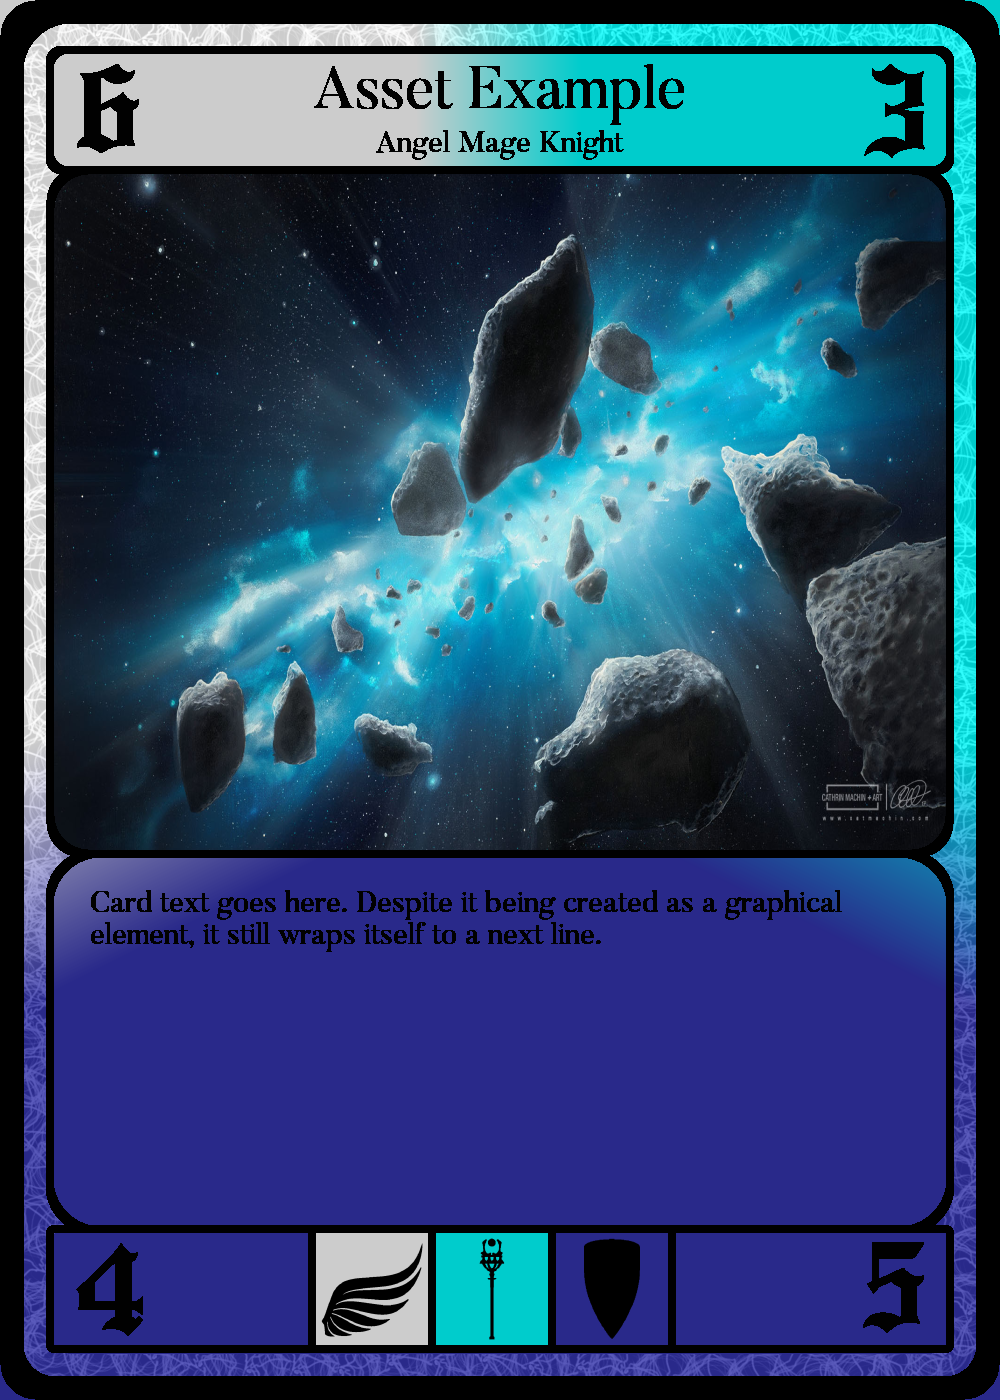
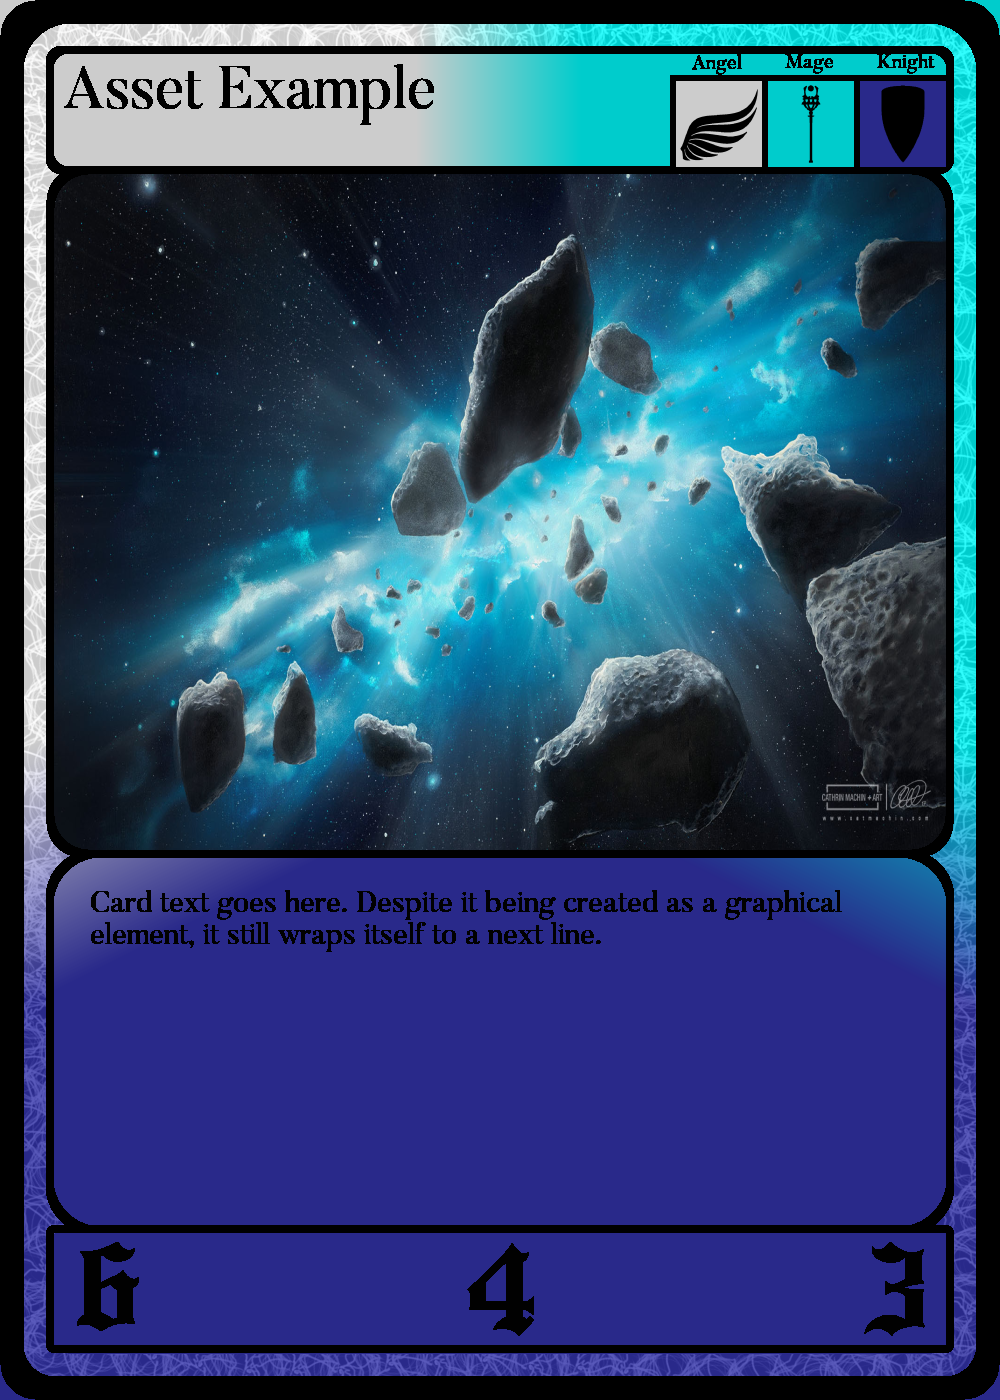
Repositioning elements on card

diff --git a/RogueProject.py b/RogueProject.py
@@ -11,6 +11,7 @@ import sqlite3
 import os
 import scipy
 import math
+import traceback
 from PIL import Image, ImageDraw, ImageFont
 
 # Scales all objects in the card image
@@ -27,37 +28,45 @@ NUMBER_HEIGHT = 100 * SCALING_FACTOR
 
 TEXT_WIDTH_START = int(9/100 * CARD_WIDTH)
 TEXT_WIDTH_END = int(91/100 * CARD_WIDTH)
-
 TEXT_HEIGHT_START = int(89 / 140 * CARD_HEIGHT)
+TEXT_HEIGHT_END = int(1188/1400 * CARD_HEIGHT)
 
-ATTACK_NUMBER_WIDTH = int(75 / 1000 * CARD_WIDTH)
-ATTACK_NUMBER_HEIGHT = int(1242 / 1400 * CARD_HEIGHT)
+POWER_NUMBER_POSITION_W = int(500 / 1000 * CARD_WIDTH)
+POWER_NUMBER_POSITION_H = int(1242 / 1400 * CARD_HEIGHT)
+POWER_NUMBER_SIZE = 75 * SCALING_FACTOR
+POWER_NUMBER_COLOR = (1, 1, 1, 255)
 
-MANA_NUMBER_WIDTH = int(925/1000 * CARD_WIDTH)
-MANA_NUMBER_HEIGHT = int(64/1400 * CARD_HEIGHT)
+# Position x (width) isn't absolute. It needs to be adjusted by taking into account the width of an image
+MANA_NUMBER_POSITION_W = int(925/1000 * CARD_WIDTH)
+MANA_NUMBER_POSITION_H = int(1242 / 1400 * CARD_HEIGHT)
+MANA_NUMBER_SIZE = 75 * SCALING_FACTOR
+MANA_NUMBER_COLOR = (1, 1, 1, 255)
 
-HEALTH_NUMBER_WIDTH = int(925/1000 * CARD_WIDTH)
-HEALTH_NUMBER_HEIGHT = ATTACK_NUMBER_HEIGHT
+# Position x (width) isn't absolute. It needs to be adjusted by taking into account the width of an image
+COST_NUMBER_POSITION_W = int(75 / 1000 * CARD_WIDTH)
+COST_NUMBER_POSITION_H = int(1242 / 1400 * CARD_HEIGHT)
+COST_NUMBER_SIZE = 75 * SCALING_FACTOR
+COST_NUMBER_COLOR = (1, 1, 1, 255)
 
-COST_NUMBER_WIDTH = ATTACK_NUMBER_WIDTH
-COST_NUMBER_HEIGHT = int(64/1400 * CARD_HEIGHT)
-
-NAME_WIDTH_START = int(13/100 * CARD_WIDTH)
+NAME_WIDTH_START = int(63/1000 * CARD_WIDTH)
 NAME_WIDTH_END = int(87/100 * CARD_WIDTH)
-NAME_HEIGHT = COST_NUMBER_HEIGHT
+NAME_HEIGHT = int(110/1400 * CARD_HEIGHT)
 
 CREATURE_WIDTH = 448 * SCALING_FACTOR
 CREATURE_HEIGHT = 343 * SCALING_FACTOR
 
-ALLEGIENCE_HEIGHT = int(130/1400 * CARD_HEIGHT)
+ALLEGIENCE_HEIGHT = int(54/1400 * CARD_HEIGHT)
 
 TRICOLOR_TRIANGLE_VERTICE_HEIGHT1 = 450 * SCALING_FACTOR
 TRICOLOR_TRIANGLE_VERTICE_HEIGHT2 = 325 * SCALING_FACTOR
 
-LOGO_WIDTH = int(56 * SCALING_FACTOR)
-LOGO_HEIGHT = int(56 * SCALING_FACTOR)
+LOGO_WIDTH = int(43 * SCALING_FACTOR)
+LOGO_HEIGHT = int(43 * SCALING_FACTOR)
+LOGO_BORDER_WIDTH = int(3 * SCALING_FACTOR)
 
-LOGO_POSITION_H = int(1233 / 1400 * CARD_HEIGHT)
+LOGO_POSITION_W = int(946/1000 * CARD_WIDTH)
+LOGO_POSITION_H = int(81/1400 * CARD_HEIGHT) - LOGO_BORDER_WIDTH
+
 
 LINE_SPACE_HEIGHT = 1
 
@@ -471,14 +480,19 @@ def create_card(card_template_path, border_template_path, creature_image_path, s
 
     card_colour_image = cv.addWeighted(card_colour_image.copy(), 1, sparks_image.copy(), 0.2, 0.0)
 
-    attack_number_image = create_text_image(attack, os.path.join(logos_path, NUMBER_FONT), 75 * SCALING_FACTOR, (1, 1, 1, 255))
-    mana_number_image = create_text_image(mana, os.path.join(logos_path, NUMBER_FONT), 75 * SCALING_FACTOR, (1, 1, 1, 255))
-    health_number_image = create_text_image(health, os.path.join(logos_path, NUMBER_FONT), 75 * SCALING_FACTOR, (1, 1, 1, 255))
-    cost_number_image = create_text_image(cost, os.path.join(logos_path, NUMBER_FONT), 75 * SCALING_FACTOR, (1, 1, 1, 255))
+    power_number_image = create_text_image(attack, os.path.join(logos_path, NUMBER_FONT), POWER_NUMBER_SIZE, POWER_NUMBER_COLOR)
+    mana_number_image = create_text_image(mana, os.path.join(logos_path, NUMBER_FONT), MANA_NUMBER_SIZE, MANA_NUMBER_COLOR)
+    cost_number_image = create_text_image(cost, os.path.join(logos_path, NUMBER_FONT), COST_NUMBER_SIZE, COST_NUMBER_COLOR)
 
     ability_text_image = create_text_image(ability_text, os.path.join(logos_path, TEXT_FONT), 15 * SCALING_FACTOR, (1, 1, 1, 255))
-    name_text_image = create_text_image(name_text, os.path.join(logos_path, TEXT_FONT), 30 * SCALING_FACTOR, (1, 1, 1, 255))
-    allegience_text_image = create_text_image(" ".join(allegiences), os.path.join(logos_path, TEXT_FONT), 15 * SCALING_FACTOR, (1, 1, 1, 255))
+    name_text_image = create_text_image(name_text, os.path.join(logos_path, TEXT_FONT), 20 * SCALING_FACTOR, (1, 1, 1, 255))
+
+    allegience_text_images = []
+    for i in range(len(allegiences)):
+        allegience_text_images.append(create_text_image(allegiences[i], os.path.join(logos_path, TEXT_FONT), 10 * SCALING_FACTOR, (1, 1, 1, 255)))
+
+
+    #allegience_text_image = create_text_image(" ".join(allegiences), os.path.join(logos_path, TEXT_FONT), 15 * SCALING_FACTOR, (1, 1, 1, 255))
 
     creature_image = cv.copyMakeBorder(creature_image.copy(), 86 * SCALING_FACTOR, 0, 27 * SCALING_FACTOR, 0, cv.BORDER_CONSTANT, None, (0, 0, 0, 0))
 
@@ -487,13 +501,13 @@ def create_card(card_template_path, border_template_path, creature_image_path, s
     creature_n_border_n_colour = add_two_images(card_colour_image.copy(), creature_n_border, (0, 0))
     creature_n_border_n_colour[:, :, 3] = 255
 
-    image3 = add_two_images(creature_n_border_n_colour, attack_number_image, (ATTACK_NUMBER_WIDTH, ATTACK_NUMBER_HEIGHT))
-    image4 = add_two_images(image3, mana_number_image, (MANA_NUMBER_WIDTH - int(mana_number_image.shape[1]), MANA_NUMBER_HEIGHT))
-    image5 = add_two_images(image4, health_number_image, (HEALTH_NUMBER_WIDTH - health_number_image.shape[1], HEALTH_NUMBER_HEIGHT))
-    image6 = add_two_images(image5, cost_number_image, (COST_NUMBER_WIDTH, COST_NUMBER_HEIGHT))
+    image3 = add_two_images(creature_n_border_n_colour, power_number_image, (POWER_NUMBER_POSITION_W - power_number_image.shape[1]//2, POWER_NUMBER_POSITION_H))
+    image4 = add_two_images(image3, mana_number_image, (MANA_NUMBER_POSITION_W - mana_number_image.shape[1], MANA_NUMBER_POSITION_H))
+    image6 = add_two_images(image4, cost_number_image, (COST_NUMBER_POSITION_W, COST_NUMBER_POSITION_H))
     image7 = add_two_images(image6, ability_text_image, (TEXT_WIDTH_START, TEXT_HEIGHT_START))
-    image8 = add_two_images(image7, name_text_image, (int(NAME_WIDTH_START + (NAME_WIDTH_END-NAME_WIDTH_START)/2 - name_text_image.shape[1]/2), NAME_HEIGHT))
-    image9 = add_two_images(image8, allegience_text_image, (int(NAME_WIDTH_START + (NAME_WIDTH_END-NAME_WIDTH_START)/2 - allegience_text_image.shape[1]/2), ALLEGIENCE_HEIGHT))
+    image = add_two_images(image7, name_text_image, (int(NAME_WIDTH_START), NAME_HEIGHT - name_text_image.shape[0]//2))
+    for i in range(len(allegiences)):
+        image = add_two_images(image, allegience_text_images[i], (LOGO_POSITION_W + LOGO_WIDTH//2 - allegience_text_images[i].shape[0] - (len(allegiences) - i) * (LOGO_WIDTH + LOGO_BORDER_WIDTH), ALLEGIENCE_HEIGHT))
 
     for i in range(len(allegiences)):
         logo_template = os.path.join(logos_path, ("Logo" + allegiences[i] + ".png"))
@@ -501,12 +515,12 @@ def create_card(card_template_path, border_template_path, creature_image_path, s
         logo = replace_color(logo, [8, 255, 0], [0, 0, 0], 3)
         logo = replace_color(logo, [255, 255, 255], [COLOUR_DICT[allegiences[i]][0], COLOUR_DICT[allegiences[i]][1], COLOUR_DICT[allegiences[i]][2]], 3)
         logo = cv.resize(logo, (LOGO_WIDTH, LOGO_HEIGHT), interpolation = cv.INTER_AREA)
-        logo = cv.copyMakeBorder(logo.copy(), 0, 0, int(4 * SCALING_FACTOR), int(4 * SCALING_FACTOR), cv.BORDER_CONSTANT, None, (0, 0, 0, 255))
-        image9 = add_two_images(image9, logo, (int(CARD_WIDTH // 2 - len(allegiences) * (LOGO_WIDTH//2 + 4 * SCALING_FACTOR) + i * (LOGO_WIDTH + 4 * SCALING_FACTOR)), LOGO_POSITION_H))
+        logo = cv.copyMakeBorder(logo.copy(), LOGO_BORDER_WIDTH, 0, LOGO_BORDER_WIDTH, 0, cv.BORDER_CONSTANT, None, (0, 0, 0, 255))
+        image = add_two_images(image, logo, (LOGO_POSITION_W - (len(allegiences) - i) * (LOGO_WIDTH + LOGO_BORDER_WIDTH), LOGO_POSITION_H))
 
-    image9[:, :, 3] = 255
+    image[:, :, 3] = 255
 
-    cv.imwrite(os.path.join(output_path, str(name_text) + ".png"), image9)
+    cv.imwrite(os.path.join(output_path, str(name_text) + ".png"), image)
 
 
 def replace_color(image, target_color, replacement_color, threshold=40):
@@ -594,6 +608,8 @@ def main():
             
         except Exception as e:
             print(f"Error processing card '{card.name}': {e}")
+            print(traceback.format_exc())
+
 
 if __name__ == "__main__":
     main()
